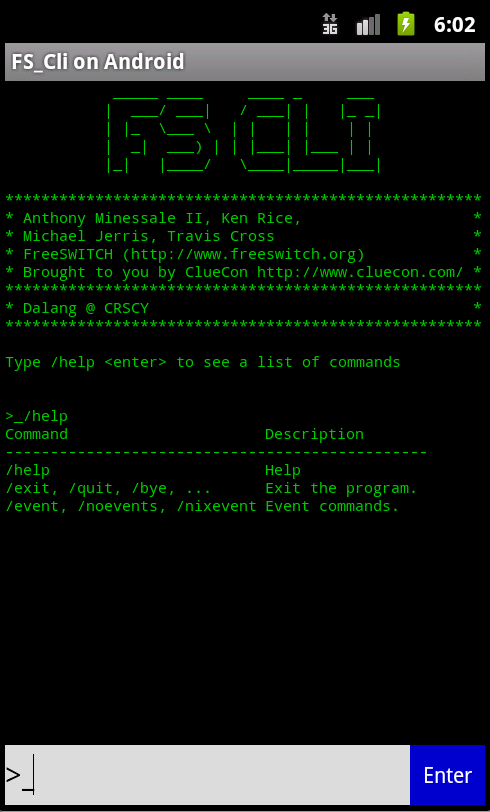
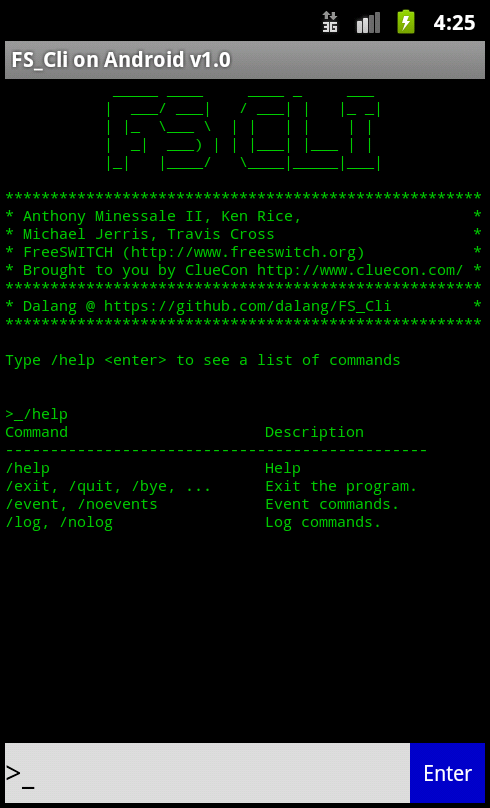
update readme and screenshot

diff --git a/README.md b/README.md
@@ -1,7 +1,7 @@
 FS_Cli
 ======
 
-This is an terminal working with FreeSWITCH's event socket connection. An optional fs_cli on Android
+This is an terminal working with FreeSWITCH's event socket connection. An optional fs_cli on Android<br/>
 Press menu to set event socket 
 
 Version 1.0
